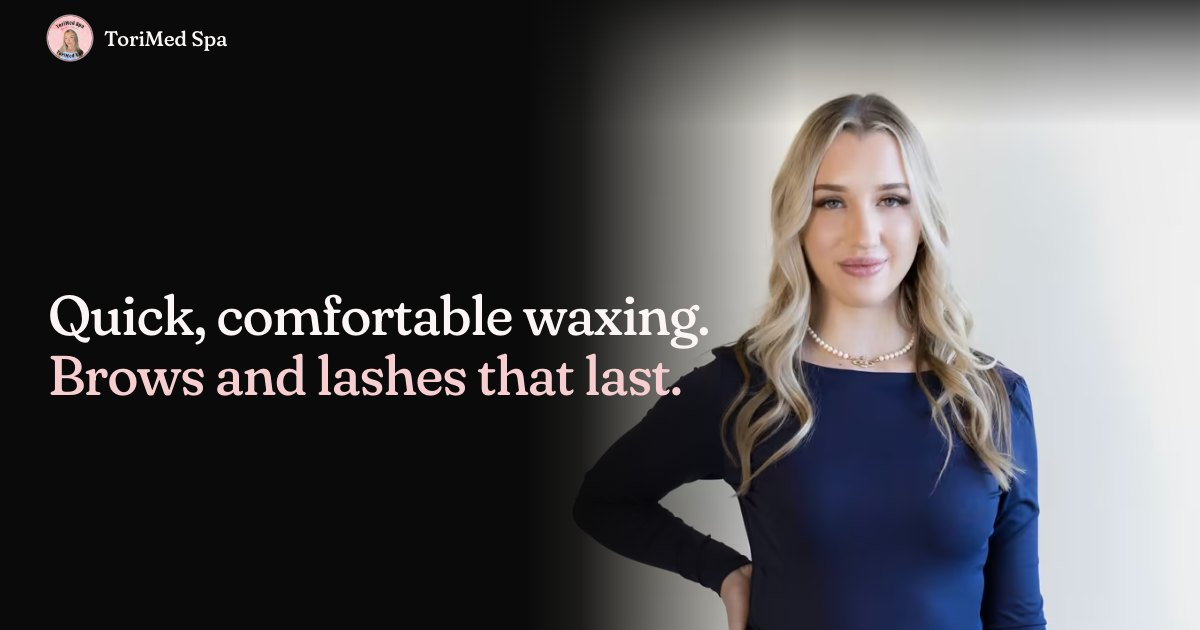
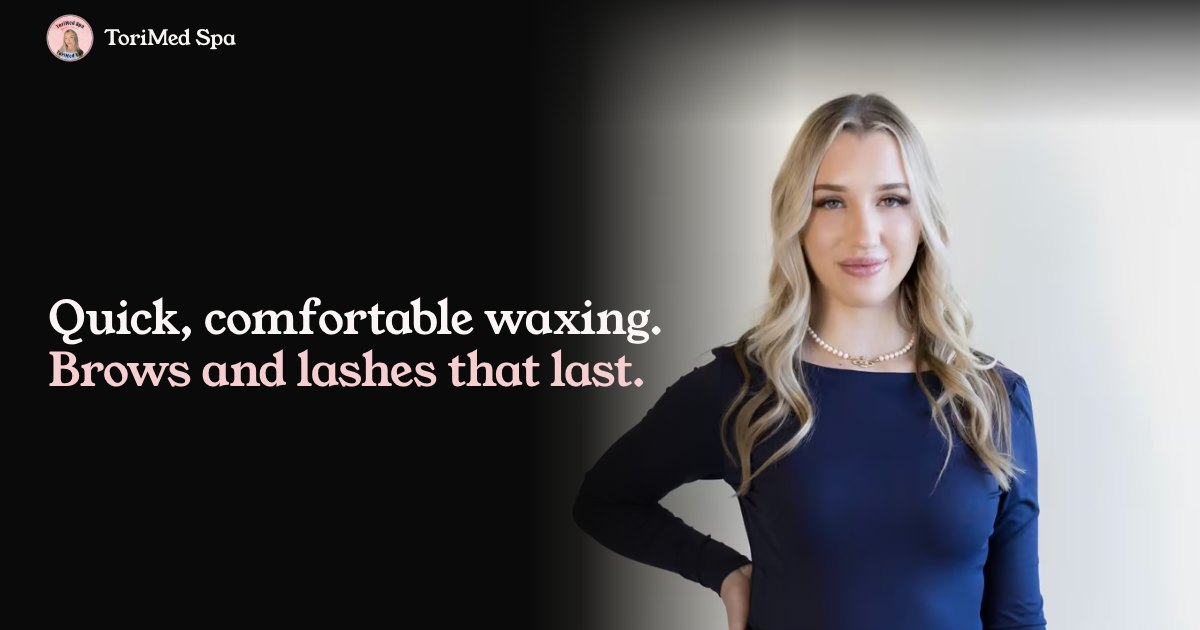
Headlines: Young Serif, Tori's pick from the first round
Replaces Fraunces. Sizes retuned because Young Serif runs wider and heavier.
Share image regenerated.

Changed region(s): [[0.0308, 0.4524, 0.5858, 0.6333], [0.0925, 0.0302, 0.2158, 0.0905]]

diff --git a/assets/styles.css b/assets/styles.css
@@ -1,9 +1,10 @@
 /* ToriMed Spa. Brand colours are black and pink; the pink is sampled from Tori's logo. */
 
+/* Young Serif ships one weight. Declaring the range stops browsers faking a bold. */
 @font-face {
-  font-family: "Fraunces";
-  src: url("fonts/fraunces.woff2") format("woff2");
-  font-weight: 400 600;
+  font-family: "Young Serif";
+  src: url("fonts/young-serif.woff2") format("woff2");
+  font-weight: 400 700;
   font-style: normal;
   font-display: swap;
 }
@@ -32,7 +33,7 @@
   --on-dark-2: rgba(251, 246, 245, 0.74);
   --line-dark: rgba(251, 246, 245, 0.18);
 
-  --display: "Fraunces", "Iowan Old Style", Georgia, serif;
+  --display: "Young Serif", "Iowan Old Style", Georgia, serif;
   --text: "Jost", "Avenir Next", Avenir, "Century Gothic", system-ui, sans-serif;
 
   --wrap: 1240px;
@@ -68,13 +69,12 @@ button { cursor: pointer; }
 
 h1, h2 {
   font-family: var(--display);
-  font-weight: 450;
-  font-optical-sizing: auto;
-  line-height: 1.06;
-  letter-spacing: -0.022em;
+  font-weight: 400;
+  line-height: 1.1;
+  letter-spacing: -0.018em;
   text-wrap: balance;
 }
-h2 { font-size: clamp(2.125rem, 1.4rem + 3vw, 3.5rem); }
+h2 { font-size: clamp(1.875rem, 1.3rem + 2.6vw, 3.125rem); }
 h3 { font-size: 1.25rem; font-weight: 500; line-height: 1.25; }
 
 :focus-visible { outline: 2px solid var(--rose); outline-offset: 3px; border-radius: 2px; }
@@ -157,7 +157,7 @@ h3 { font-size: 1.25rem; font-weight: 500; line-height: 1.25; }
     linear-gradient(0deg, var(--black) 0, rgba(10, 10, 10, 0.86) 14%, rgba(10, 10, 10, 0) 46%);
 }
 .hero__in { position: relative; margin-top: -84px; padding-bottom: 56px; }
-.hero__title { font-size: clamp(2.25rem, 1.1rem + 4.9vw, 3.5rem); }
+.hero__title { font-size: clamp(2rem, 1rem + 4.2vw, 3.25rem); }
 .hero__title span { display: block; }
 .hero__title span:nth-child(2) { color: var(--blush); }
 .hero__lede { margin-top: 20px; max-width: 34em; font-size: 1.125rem; line-height: 1.55; color: var(--on-dark-2); }
@@ -194,7 +194,7 @@ h3 { font-size: 1.25rem; font-weight: 500; line-height: 1.25; }
   }
   .hero__in { margin-top: 0; padding-block: calc(var(--header-h) + 48px) 72px; }
   .hero__copy { max-width: 600px; }
-  .hero__title { font-size: clamp(2.5rem, 4.4vw, 4.75rem); line-height: 1.08; }
+  .hero__title { font-size: clamp(2.25rem, 3.75vw, 4.25rem); line-height: 1.12; }
   .hero__title span { white-space: nowrap; }
   .hero__lede { font-size: 1.1875rem; }
   .hero__actions { margin-top: 36px; }
@@ -254,7 +254,7 @@ h3 { font-size: 1.25rem; font-weight: 500; line-height: 1.25; }
 .menu__panel.is-entering { animation: panel 0.35s var(--ease) both; }
 @keyframes panel { from { opacity: 0; transform: translateY(10px); } to { opacity: 1; transform: none; } }
 .menu__intro { display: grid; gap: 8px; padding-bottom: clamp(18px, 3vw, 28px); border-bottom: 1px solid var(--line); }
-.menu__intro h3 { font-family: var(--display); font-weight: 500; font-size: clamp(1.75rem, 1.4rem + 1.4vw, 2.375rem); line-height: 1.08; letter-spacing: -0.01em; }
+.menu__intro h3 { font-family: var(--display); font-weight: 400; font-size: clamp(1.625rem, 1.3rem + 1.3vw, 2.125rem); line-height: 1.08; letter-spacing: -0.01em; }
 .menu__intro p { color: var(--ink-2); max-width: 40em; }
 .menu__cols { display: grid; gap: 8px 64px; }
 .menu__group { padding-top: clamp(20px, 3vw, 30px); }
@@ -314,7 +314,7 @@ h3 { font-size: 1.25rem; font-weight: 500; line-height: 1.25; }
 .about__copy > * + * { margin-top: 22px; }
 .about__copy p { max-width: 34em; }
 .about__quote { padding: 4px 0 4px 22px; border-left: 2px solid var(--rose); }
-.about__quote p { font-family: var(--display); font-weight: 500; font-size: clamp(1.375rem, 1.1rem + 1vw, 1.75rem); line-height: 1.28; letter-spacing: -0.005em; }
+.about__quote p { font-family: var(--display); font-weight: 400; font-size: clamp(1.25rem, 1.05rem + 0.9vw, 1.5625rem); line-height: 1.32; letter-spacing: -0.005em; }
 .checks { display: grid; gap: 12px; }
 .checks li { position: relative; padding-left: 34px; }
 .checks li::before { content: ""; position: absolute; left: 0; top: 0.2em; width: 22px; height: 22px; border-radius: 50%; background: var(--blush); }
@@ -327,7 +327,7 @@ h3 { font-size: 1.25rem; font-weight: 500; line-height: 1.25; }
 /* Review */
 .review { padding-block: clamp(64px, 9vw, 120px); }
 .review__in { display: grid; gap: 44px; }
-.review blockquote p { font-family: var(--display); font-weight: 500; font-size: clamp(1.75rem, 1.2rem + 2.4vw, 3rem); line-height: 1.16; letter-spacing: -0.012em; color: var(--black); text-wrap: balance; }
+.review blockquote p { font-family: var(--display); font-weight: 400; font-size: clamp(1.5rem, 1.1rem + 2vw, 2.625rem); line-height: 1.2; letter-spacing: -0.012em; color: var(--black); text-wrap: balance; }
 .review figcaption { margin-top: 22px; display: grid; gap: 2px; font-size: 1rem; color: var(--ink-2); }
 .review__who { font-weight: 500; color: var(--ink); font-size: 1.0625rem; }
 .review__second { padding-top: 32px; border-top: 1px solid rgba(18, 18, 18, 0.18); }

diff --git a/index.html b/index.html
@@ -21,11 +21,11 @@
 <link rel="icon" href="assets/img/logo-150.png" type="image/png">
 <link rel="apple-touch-icon" href="assets/img/logo-150.png">
 
-<link rel="preload" href="assets/fonts/fraunces.woff2" as="font" type="font/woff2" crossorigin>
+<link rel="preload" href="assets/fonts/young-serif.woff2" as="font" type="font/woff2" crossorigin>
 <link rel="preload" href="assets/fonts/jost.woff2" as="font" type="font/woff2" crossorigin>
 <link rel="preload" as="image" type="image/avif" media="(max-width: 899px)" imagesrcset="assets/img/hero-m-520.avif 520w, assets/img/hero-m-800.avif 800w" imagesizes="100vw" fetchpriority="high">
 <link rel="preload" as="image" type="image/avif" media="(min-width: 900px)" imagesrcset="assets/img/hero-760.avif 760w, assets/img/hero-1160.avif 1160w" imagesizes="56vw" fetchpriority="high">
-<link rel="stylesheet" href="assets/styles.css?v=4">
+<link rel="stylesheet" href="assets/styles.css?v=5">
 
 <script type="application/ld+json">
 {
@@ -616,6 +616,6 @@
   <a class="btn btn--blush" href="#book" id="dock-btn">Book an appointment</a>
 </div>
 
-<script src="assets/main.js?v=4" defer></script>
+<script src="assets/main.js?v=5" defer></script>
 </body>
 </html>
